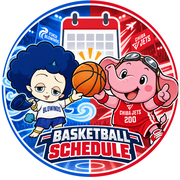
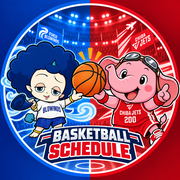
アイコンを新デザインに差し替え、アプリ名を「バスケ日程」に

diff --git a/index.html b/index.html
@@ -3,11 +3,11 @@
 <head>
 <meta charset="utf-8">
 <meta name="viewport" content="width=device-width,initial-scale=1,viewport-fit=cover">
-<title>福井・千葉J 観戦カレンダー 2026-27</title>
+<title>バスケ日程</title>
 <meta name="theme-color" content="#f5f3f6">
 <meta name="apple-mobile-web-app-capable" content="yes">
 <meta name="apple-mobile-web-app-status-bar-style" content="default">
-<meta name="apple-mobile-web-app-title" content="福井・千葉J">
+<meta name="apple-mobile-web-app-title" content="バスケ日程">
 <link rel="apple-touch-icon" href="apple-touch-icon.png">
 <link rel="icon" href="favicon.png">
 <link rel="manifest" href="manifest.json">
